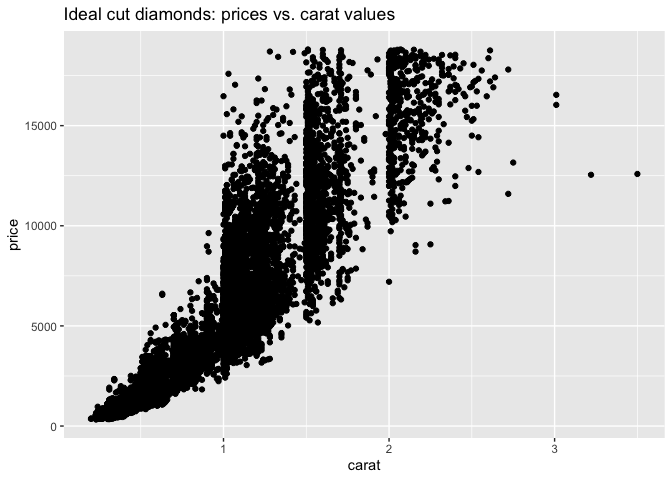
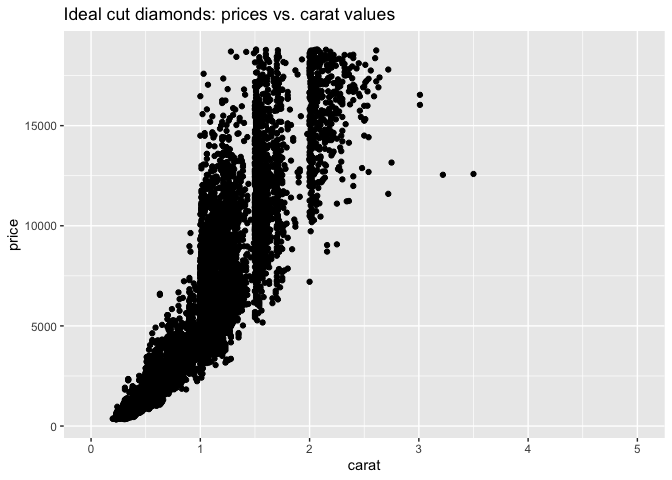
Diamonds challenge 1.1

diff --git a/c00-diamonds-assignment.md b/c00-diamonds-assignment.md
@@ -234,7 +234,8 @@ If I filter the dataset by cut, do other patterns emerge?
 ideal_diamonds <- filter(diamonds, cut == "Ideal")
 ggplot(ideal_diamonds) +
   geom_point(mapping = aes(x = carat, y = price)) +
-  labs(title = "Ideal cut diamonds: prices vs. carat values")
+  labs(title = "Ideal cut diamonds: prices vs. carat values")+
+  xlim(0,5)
 ```
 
 ![](c00-diamonds-assignment_files/figure-gfm/unnamed-chunk-5-1.png)<!-- -->
